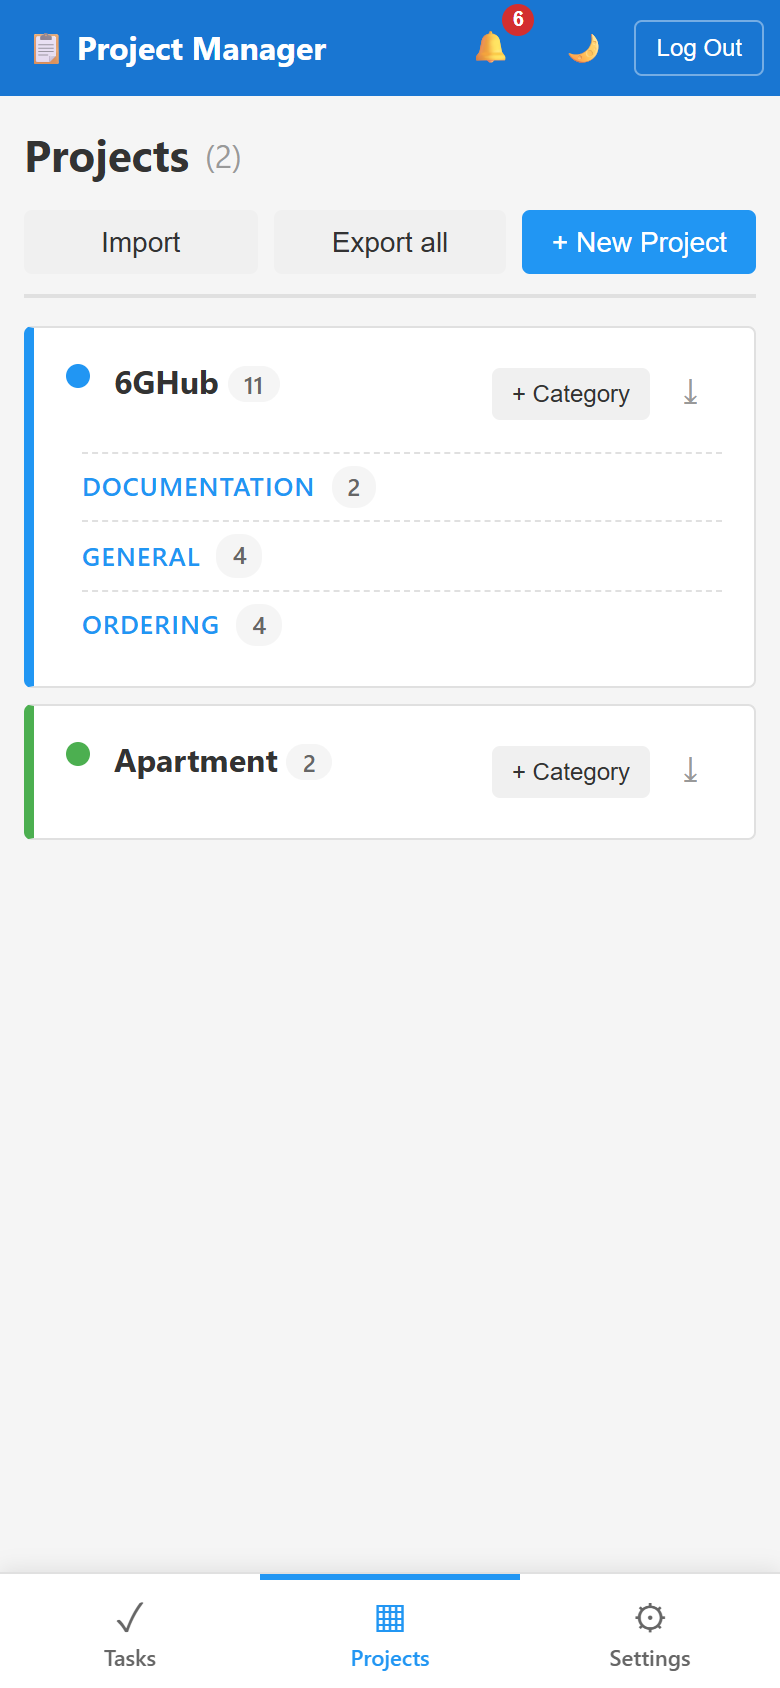
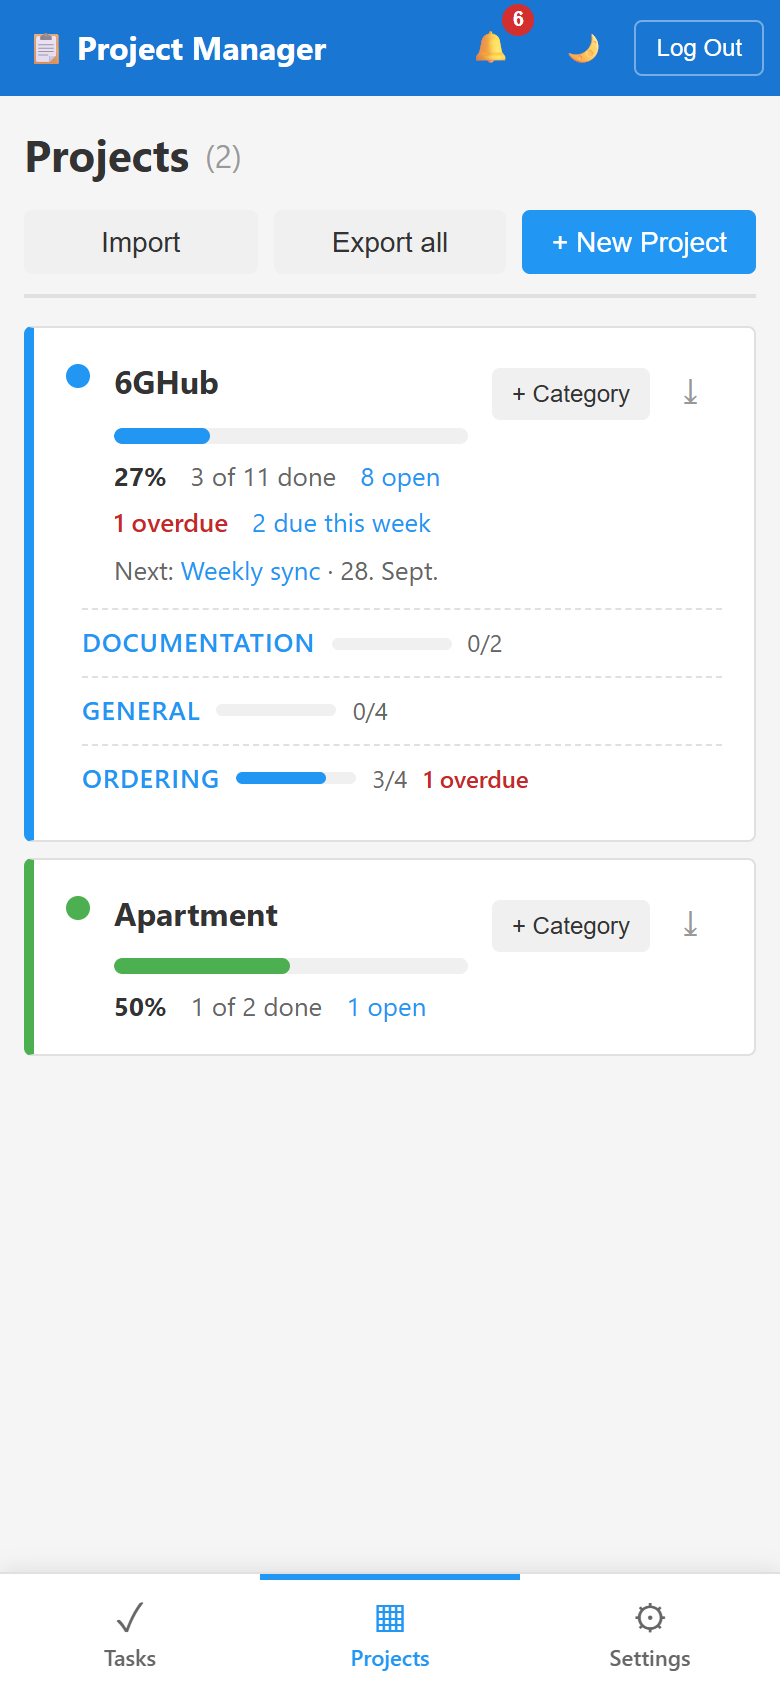
Progress overview on the Projects page (v1.21.0)
- Progress bar, % done, done/total per project (categories included),
  open / overdue / due-this-week counts linking to the filtered Tasks
  page, next deadline linking to the task
- Mini bar, done/total and overdue count per category
- progress.js with Jest test; README, CHANGELOG, screenshots

diff --git a/frontend/src/components/ProjectList.js b/frontend/src/components/ProjectList.js
@@ -1,13 +1,65 @@
 import React, { useState, useEffect, useMemo, useRef } from 'react';
+import { Link } from 'react-router-dom';
 import ProjectForm from './ProjectForm';
 import { authFetch } from '../context/AuthContext';
 import { buildProjectIndex } from '../projects';
+import { progressByProject, combineProgress, percentDone } from '../progress';
 import '../styles/TaskList.css';
 import '../styles/ProjectList.css';
 
+const shortDate = (value) => new Date(value).toLocaleDateString(undefined, { month: 'short', day: 'numeric' });
+
+function ProgressBar({ stats, small = false }) {
+  const pct = percentDone(stats);
+  return (
+    <span
+      className={`progress-bar ${small ? 'small' : ''}`}
+      role="progressbar"
+      aria-valuemin={0}
+      aria-valuemax={100}
+      aria-valuenow={pct}
+      aria-label={`${pct}% done`}
+      title={`${stats.done} of ${stats.total} done`}
+    >
+      <span style={{ width: `${pct}%` }} />
+    </span>
+  );
+}
+
+// Progress of a project (with its categories): bar, counts that open the
+// matching filter on the Tasks page, and the next deadline.
+function ProjectProgress({ stats, projectId }) {
+  if (!stats.total) return <p className="progress-text progress-empty">No tasks yet</p>;
+  const open = stats.total - stats.done;
+  const tasksUrl = (extra) => `/?project=${projectId}&${extra}`;
+  return (
+    <div className="project-progress">
+      <ProgressBar stats={stats} />
+      <p className="progress-text">
+        <strong>{percentDone(stats)}%</strong>
+        <span>
+          {stats.done} of {stats.total} done
+        </span>
+        {open > 0 && <Link to={tasksUrl('status=open')}>{open} open</Link>}
+        {stats.overdue > 0 && (
+          <Link className="progress-overdue" to={tasksUrl('due=overdue')}>
+            {stats.overdue} overdue
+          </Link>
+        )}
+        {stats.dueSoon > 0 && <Link to={tasksUrl('due=week')}>{stats.dueSoon} due this week</Link>}
+        {stats.next && (
+          <span className="progress-next">
+            Next: <Link to={`/?task=${stats.next.id}`}>{stats.next.title}</Link> · {shortDate(stats.next.deadline)}
+          </span>
+        )}
+      </p>
+    </div>
+  );
+}
+
 function ProjectList() {
   const [projects, setProjects] = useState([]);
-  const [taskCounts, setTaskCounts] = useState(new Map());
+  const [progress, setProgress] = useState(new Map());
   const [loading, setLoading] = useState(true);
   const [error, setError] = useState(null);
   // null: closed; { project } to edit; { parentId } to create
@@ -39,11 +91,7 @@ function ProjectList() {
     try {
       const [projectsRes, tasksRes] = await Promise.all([fetchJson('/api/projects/'), fetchJson('/api/tasks/')]);
       setProjects(projectsRes);
-      const counts = new Map();
-      for (const t of tasksRes) {
-        if (t.project_id != null && t.parent_task_id == null) counts.set(t.project_id, (counts.get(t.project_id) || 0) + 1);
-      }
-      setTaskCounts(counts);
+      setProgress(progressByProject(tasksRes));
       setError(null);
     } catch (err) {
       setError('Failed to load projects: ' + err.message);
@@ -148,7 +196,8 @@ function ProjectList() {
 
   if (loading) return <div className="container"><p>Loading projects...</p></div>;
 
-  const count = (id) => taskCounts.get(id) || 0;
+  const EMPTY = combineProgress([]);
+  const statsOf = (id) => progress.get(id) || EMPTY;
 
   return (
     <div className="container">
@@ -208,16 +257,15 @@ function ProjectList() {
         ) : (
           projectIndex.topLevel.map((project) => {
             const categories = projectIndex.categoriesOf(project.id);
-            const total = count(project.id) + categories.reduce((n, c) => n + count(c.id), 0);
+            const stats = combineProgress([statsOf(project.id), ...categories.map((c) => statsOf(c.id))]);
             return (
               <div className="project-item" key={project.id} style={{ '--project-color': projectIndex.colorOf(project.id) }}>
                 <div className="project-row">
                   <span className="project-swatch" />
                   <div className="project-info">
-                    <h3>
-                      {project.name} <span className="project-group-count">{total}</span>
-                    </h3>
+                    <h3>{project.name}</h3>
                     {project.description && <p>{project.description}</p>}
+                    <ProjectProgress stats={stats} projectId={project.id} />
                   </div>
                   <div className="project-actions">
                     <button
@@ -248,7 +296,15 @@ function ProjectList() {
                     {categories.map((c) => (
                       <li key={c.id} className="category-row">
                         <span className="category-name">{c.name}</span>
-                        <span className="project-group-count">{count(c.id)}</span>
+                        <ProgressBar stats={statsOf(c.id)} small />
+                        <span className="category-progress">
+                          {statsOf(c.id).done}/{statsOf(c.id).total}
+                        </span>
+                        {statsOf(c.id).overdue > 0 && (
+                          <Link className="progress-overdue category-overdue" to={`/?project=${c.id}&due=overdue`}>
+                            {statsOf(c.id).overdue} overdue
+                          </Link>
+                        )}
                         {c.description && <span className="category-desc">{c.description}</span>}
                         <span className="project-actions">
                           <button className="task-action-btn edit-btn" onClick={() => openForm({ project: c })} title="Edit">

diff --git a/frontend/src/progress.js b/frontend/src/progress.js
@@ -1,0 +1,50 @@
+// Progress per project/category for the Projects page. Counts top-level
+// tasks only (subtasks are a task's checklist), archived ones included.
+
+const DAY_MS = 24 * 60 * 60 * 1000;
+
+const empty = () => ({ total: 0, done: 0, overdue: 0, dueSoon: 0, next: null });
+
+/** Map projectId -> { total, done, overdue, dueSoon, next: task | null } for
+ *  the tasks directly in that project or category. */
+export function progressByProject(tasks, now = Date.now()) {
+  const out = new Map();
+  for (const t of tasks) {
+    if (t.parent_task_id != null || t.project_id == null) continue;
+    if (!out.has(t.project_id)) out.set(t.project_id, empty());
+    const s = out.get(t.project_id);
+    s.total += 1;
+    if (t.status === 'done') {
+      s.done += 1;
+      continue;
+    }
+    if (!t.deadline) continue;
+    // Same rule as the "Overdue" / "Due this week" filters on the Tasks page.
+    const due = new Date(t.deadline).getTime();
+    if (due < now) s.overdue += 1;
+    else {
+      if (due <= now + 7 * DAY_MS) s.dueSoon += 1;
+      if (!s.next || due < new Date(s.next.deadline).getTime()) s.next = t;
+    }
+  }
+  return out;
+}
+
+/** Adds up several stats (a project and its categories). */
+export function combineProgress(list) {
+  const s = empty();
+  for (const x of list) {
+    if (!x) continue;
+    s.total += x.total;
+    s.done += x.done;
+    s.overdue += x.overdue;
+    s.dueSoon += x.dueSoon;
+    if (x.next && (!s.next || new Date(x.next.deadline) < new Date(s.next.deadline))) s.next = x.next;
+  }
+  return s;
+}
+
+/** Whole percent done, 0 for an empty project. */
+export function percentDone(s) {
+  return s && s.total ? Math.round((s.done / s.total) * 100) : 0;
+}

diff --git a/frontend/src/progress.test.js b/frontend/src/progress.test.js
@@ -1,0 +1,34 @@
+// Run with `npm test` (react-scripts / Jest).
+import assert from 'assert';
+import { progressByProject, combineProgress, percentDone } from './progress';
+
+const NOW = new Date('2026-09-26T12:00:00Z').getTime();
+let id = 0;
+const t = (project_id, status = 'todo', deadline = null, extra = {}) => ({
+  id: ++id, title: `t${id}`, project_id, status, deadline, parent_task_id: null, ...extra,
+});
+
+test('counts top-level tasks per project', () => {
+  const tasks = [
+    t(1, 'done'),
+    t(1, 'done', '2026-09-01T00:00:00'), // done tasks are never overdue
+    t(1, 'todo', '2026-09-20T00:00:00'), // overdue
+    t(1, 'in_progress', '2026-09-29T00:00:00'), // due soon, next
+    t(1, 'todo', '2026-10-20T00:00:00'),
+    t(1, 'todo', null, { parent_task_id: 3 }), // subtask: ignored
+    t(null, 'todo'), // no project: ignored
+    t(2, 'todo', '2026-10-01T00:00:00'),
+  ];
+  const p = progressByProject(tasks, NOW);
+  const one = p.get(1);
+  assert.deepStrictEqual(
+    [one.total, one.done, one.overdue, one.dueSoon, one.next.deadline],
+    [5, 2, 1, 1, '2026-09-29T00:00:00']
+  );
+  assert.strictEqual(percentDone(one), 40);
+  assert.strictEqual(p.has(null), false);
+
+  const both = combineProgress([one, p.get(2), undefined]);
+  assert.deepStrictEqual([both.total, both.done, both.dueSoon, both.next.deadline], [6, 2, 2, '2026-09-29T00:00:00']);
+  assert.strictEqual(percentDone(combineProgress([])), 0);
+});

diff --git a/frontend/src/styles/ProjectList.css b/frontend/src/styles/ProjectList.css
@@ -171,3 +171,78 @@
     padding-right: 8px;
   }
 }
+
+/* Progress overview */
+.project-progress {
+  margin-top: 10px;
+}
+
+.progress-bar {
+  display: block;
+  height: 8px;
+  border-radius: 4px;
+  overflow: hidden;
+  background-color: var(--color-border-light);
+}
+
+.progress-bar > span {
+  display: block;
+  height: 100%;
+  border-radius: 4px;
+  background-color: var(--project-color);
+  transition: width 0.3s ease;
+}
+
+.progress-bar.small {
+  flex: 0 0 60px;
+  height: 6px;
+}
+
+.progress-text {
+  display: flex;
+  flex-wrap: wrap;
+  align-items: baseline;
+  gap: 4px 12px;
+  margin: 6px 0 0 0 !important;
+  font-size: 13px;
+  color: var(--color-text-secondary);
+}
+
+.progress-text strong {
+  color: var(--color-text-primary);
+}
+
+.progress-text a {
+  color: var(--color-primary);
+  text-decoration: none;
+}
+
+.progress-text a:hover {
+  text-decoration: underline;
+}
+
+.progress-text .progress-overdue,
+.category-overdue {
+  color: var(--color-error-text);
+  font-weight: 600;
+}
+
+.progress-next {
+  min-width: 0;
+  overflow-wrap: anywhere;
+}
+
+.progress-empty {
+  font-style: italic;
+}
+
+.category-progress {
+  font-size: 12px;
+  color: var(--color-text-secondary);
+  font-variant-numeric: tabular-nums;
+}
+
+.category-overdue {
+  font-size: 12px;
+  text-decoration: none;
+}

diff --git a/README.md b/README.md
@@ -19,6 +19,7 @@ A self-hosted task management application with hierarchical tasks (main tasks + 
 - **Task History**: The 💬 panel also shows who created the task and who changed what — status, assignee, project, title, description, deadline, priority, repeat — interleaved with the comments (*Hide history* to see comments only)
 - **Search & Filters**: Full-text search over titles, descriptions and comments (subtasks included), filters for status, project, assignee and deadline, sorting by deadline/priority/date/title; filters are kept in the URL
 - **Projects & Categories**: Projects with one level of categories (e.g. *6GHub → General, Ordering, Documentation*), each project color-coded; the Tasks page lists tasks in collapsible sections per project and per category (remembered per browser), with every task carrying its project's color
+- **Progress Overview**: The Projects page shows each project's progress bar and % done (categories included), open / overdue / due-this-week counts that open the matching filter on the Tasks page, and the next deadline; each category has its own mini bar and overdue count
 - **Phone-friendly**: Bottom tab bar, two-line task rows with large touch targets and a ⋯ menu that opens as a bottom sheet (add subtask, edit, move, delete), folding filters, no input zoom on iOS; installable via *Add to Home Screen* (web app manifest) to run full-screen like an app
 - **Extended Status**: todo / in_progress / blocked / done
 - **Notifications**: The bell tells you when someone **assigns you a task** (a bulk add counts as one) or **comments on a task** you're assigned to or have commented on, plus overdue and due-within-3-days deadlines of your (and unassigned) tasks. Unread items are highlighted; clicking one jumps to the task — opening its project, category and parents, and its comments
@@ -35,7 +36,7 @@ A self-hosted task management application with hierarchical tasks (main tasks + 
 |---|---|
 | ![Tasks, dark mode](docs/screenshots/tasks-desktop-dark.png) | ![Tasks on a phone](docs/screenshots/tasks-phone.png) |
 | ![Search with highlighted matches](docs/screenshots/tasks-filtered.png) | ![Completed row on a phone, dark mode](docs/screenshots/tasks-phone-dark.png) |
-| ![Projects with categories](docs/screenshots/projects-desktop.png) | ![Projects on a phone](docs/screenshots/projects-phone.png) |
+| ![Projects with categories and progress](docs/screenshots/projects-desktop.png) | ![Project progress on a phone](docs/screenshots/projects-phone.png) |
 | ![Comments and history of a task](docs/screenshots/comments-desktop.png) | ![Comments and history on a phone](docs/screenshots/comments-phone.png) |
 | ![Bulk entry: one task per line, indented lines become subtasks](docs/screenshots/bulk-desktop.png) | ![Login with registration closed](docs/screenshots/login-phone.png) |
 | ![Notifications: assignments, comments, deadlines](docs/screenshots/bell-desktop.png) | ![Task menu on a phone](docs/screenshots/menu-phone.png) |
@@ -129,7 +130,7 @@ With no configuration it starts a throwaway PostgreSQL via the `pgserver` packag
 
 ```bash
 cd frontend
-npm test                  # taskFilters (search/filter/sort/archive), projects (tree, grouping), exportCsv, bulkParse
+npm test                  # taskFilters (search/filter/sort/archive), projects (tree, grouping), progress, exportCsv, bulkParse, recurrence, activity
 ```
 
 **CI** — [GitHub Actions](.github/workflows/ci.yml) runs the backend tests (PostgreSQL 16, Python 3.10 and 3.12), the frontend tests and production build, and shellcheck on every push to `main`/`dev` and on pull requests.
@@ -154,6 +155,7 @@ project-manager/
 │       ├── bulkParse.js     # "One task per line" text → task tree
 │       ├── recurrence.js    # Repeat settings as text
 │       ├── activity.js      # Task history entries as sentences
+│       ├── progress.js      # Per-project progress for the Projects page
 │       └── projects.js      # Project tree, colors, grouping tasks by project/category
 ├── install.sh               # Installer for a Debian/Ubuntu LXC or VM (idempotent)
 ├── proxmox/

diff --git a/CHANGELOG.md b/CHANGELOG.md
@@ -2,6 +2,13 @@
 
 All notable changes, newest first. Versions follow [semantic versioning](README.md#versioning); each release is tagged `vX.Y.Z` on `main`.
 
+## v1.21.0 — 2026-09-26
+
+### Added
+- **Progress overview on the Projects page.** Every project shows a progress bar in its color, **% done** and *x of y done* (its categories included), plus **open**, **overdue** and **due this week** counts — each a link to the Tasks page with that filter set — and the **next deadline** (a link to the task).
+- Categories get their own mini progress bar, *done/total* and an overdue count.
+- Counts are top-level tasks (subtasks are a task's checklist); archived done tasks count as done.
+
 ## v1.20.0 — 2026-09-26
 
 ### Added
